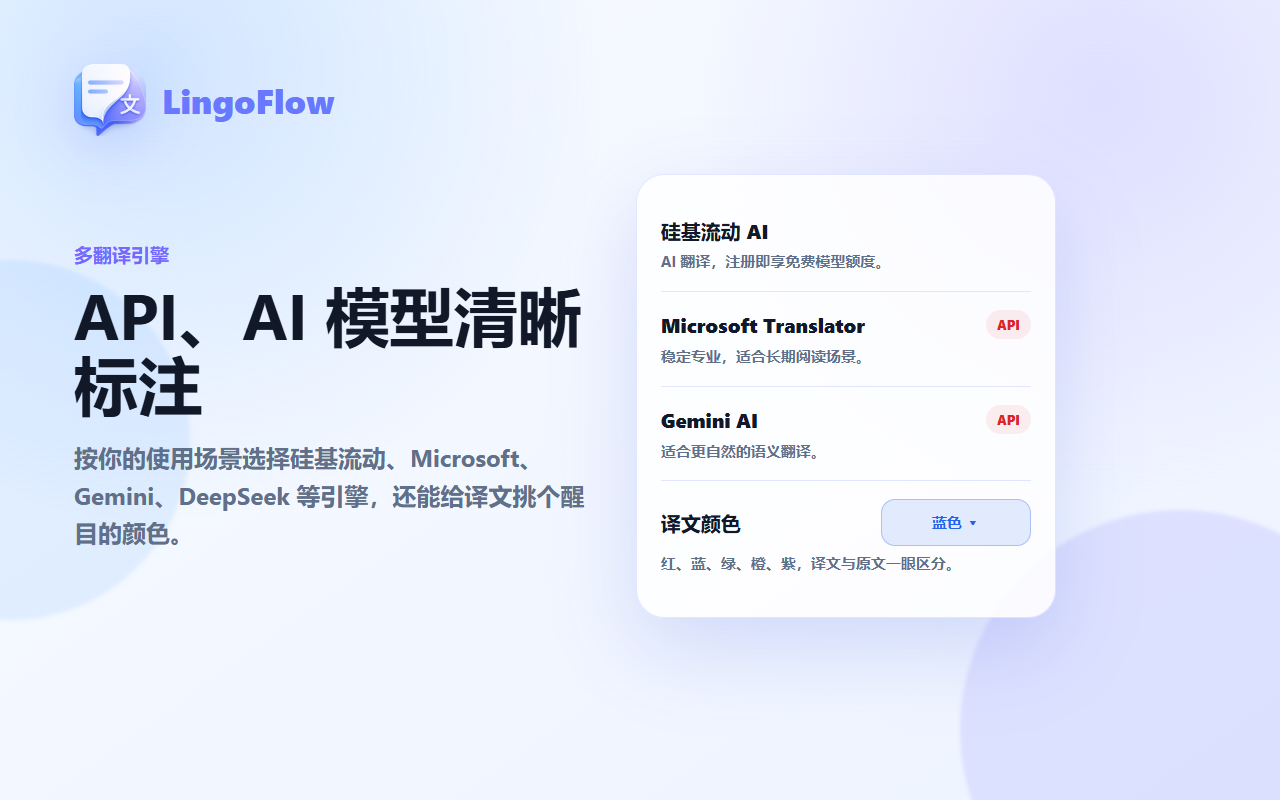
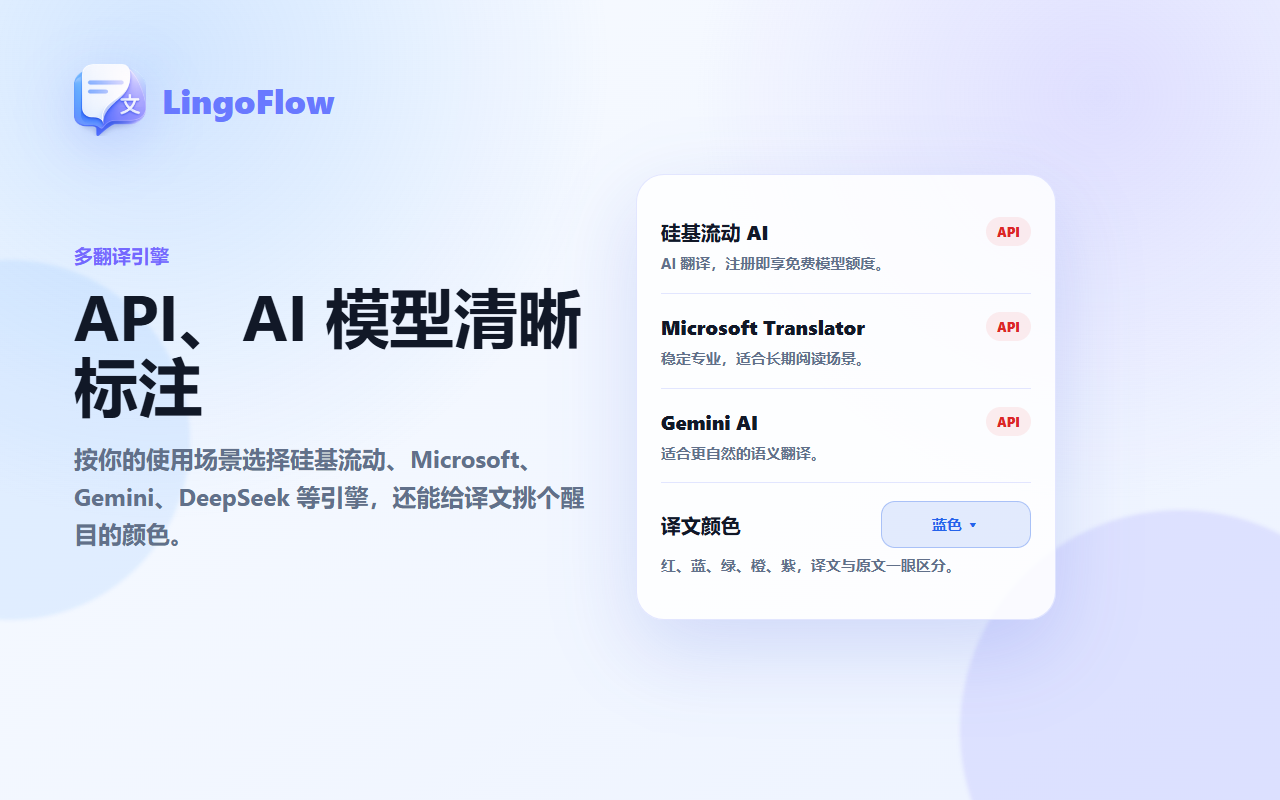
docs(store-assets): 商店截图给 SiliconFlow 补上 API 标注
三语 03-translation-engines 截图中，SiliconFlow 行同样需要 API Key，
统一标注为 API（与 Microsoft / Gemini 一致），不再出现「默认」字样。
重新生成 zh-CN / es / en 三语 03 截图。

diff --git a/store-assets/es/render-screenshots.html b/store-assets/es/render-screenshots.html
@@ -601,7 +601,7 @@
       </div>
       <div class="settings">
         <div class="setting-row">
-          <div class="label">SiliconFlow AI</div>
+          <div class="label">SiliconFlow AI <span class="tag paid">API</span></div>
           <div class="desc">Traducción con IA; modelos gratuitos al registrarte.</div>
         </div>
         <div class="setting-row">

diff --git a/store-assets/zh-CN/render-screenshots.html b/store-assets/zh-CN/render-screenshots.html
@@ -601,7 +601,7 @@
       </div>
       <div class="settings">
         <div class="setting-row">
-          <div class="label">硅基流动 AI</div>
+          <div class="label">硅基流动 AI <span class="tag paid">API</span></div>
           <div class="desc">AI 翻译，注册即享免费模型额度。</div>
         </div>
         <div class="setting-row">

diff --git a/scripts/generate-store-screenshots.py b/scripts/generate-store-screenshots.py
@@ -316,7 +316,7 @@ def screenshot_03_engines():
     draw = ImageDraw.Draw(img)
     rounded_rect(draw, (x, y, x + w, y + h), COLORS["white"], outline="#e2e8f7", width=2, radius=28)
     rows = [
-        ("engine", "SiliconFlow AI", "", "AI translation with free models after sign-up.", COLORS["green"]),
+        ("engine", "SiliconFlow AI", "API", "AI translation with free models after sign-up.", COLORS["red"]),
         ("engine", "Microsoft Translator", "API", "Stable and professional for long-term reading.", COLORS["red"]),
         ("engine", "Gemini AI", "API", "More natural, context-aware translations.", COLORS["red"]),
         ("color", "Translation Color", "Blue", "Pick a color to tell original and translated text apart at a glance.", None),
